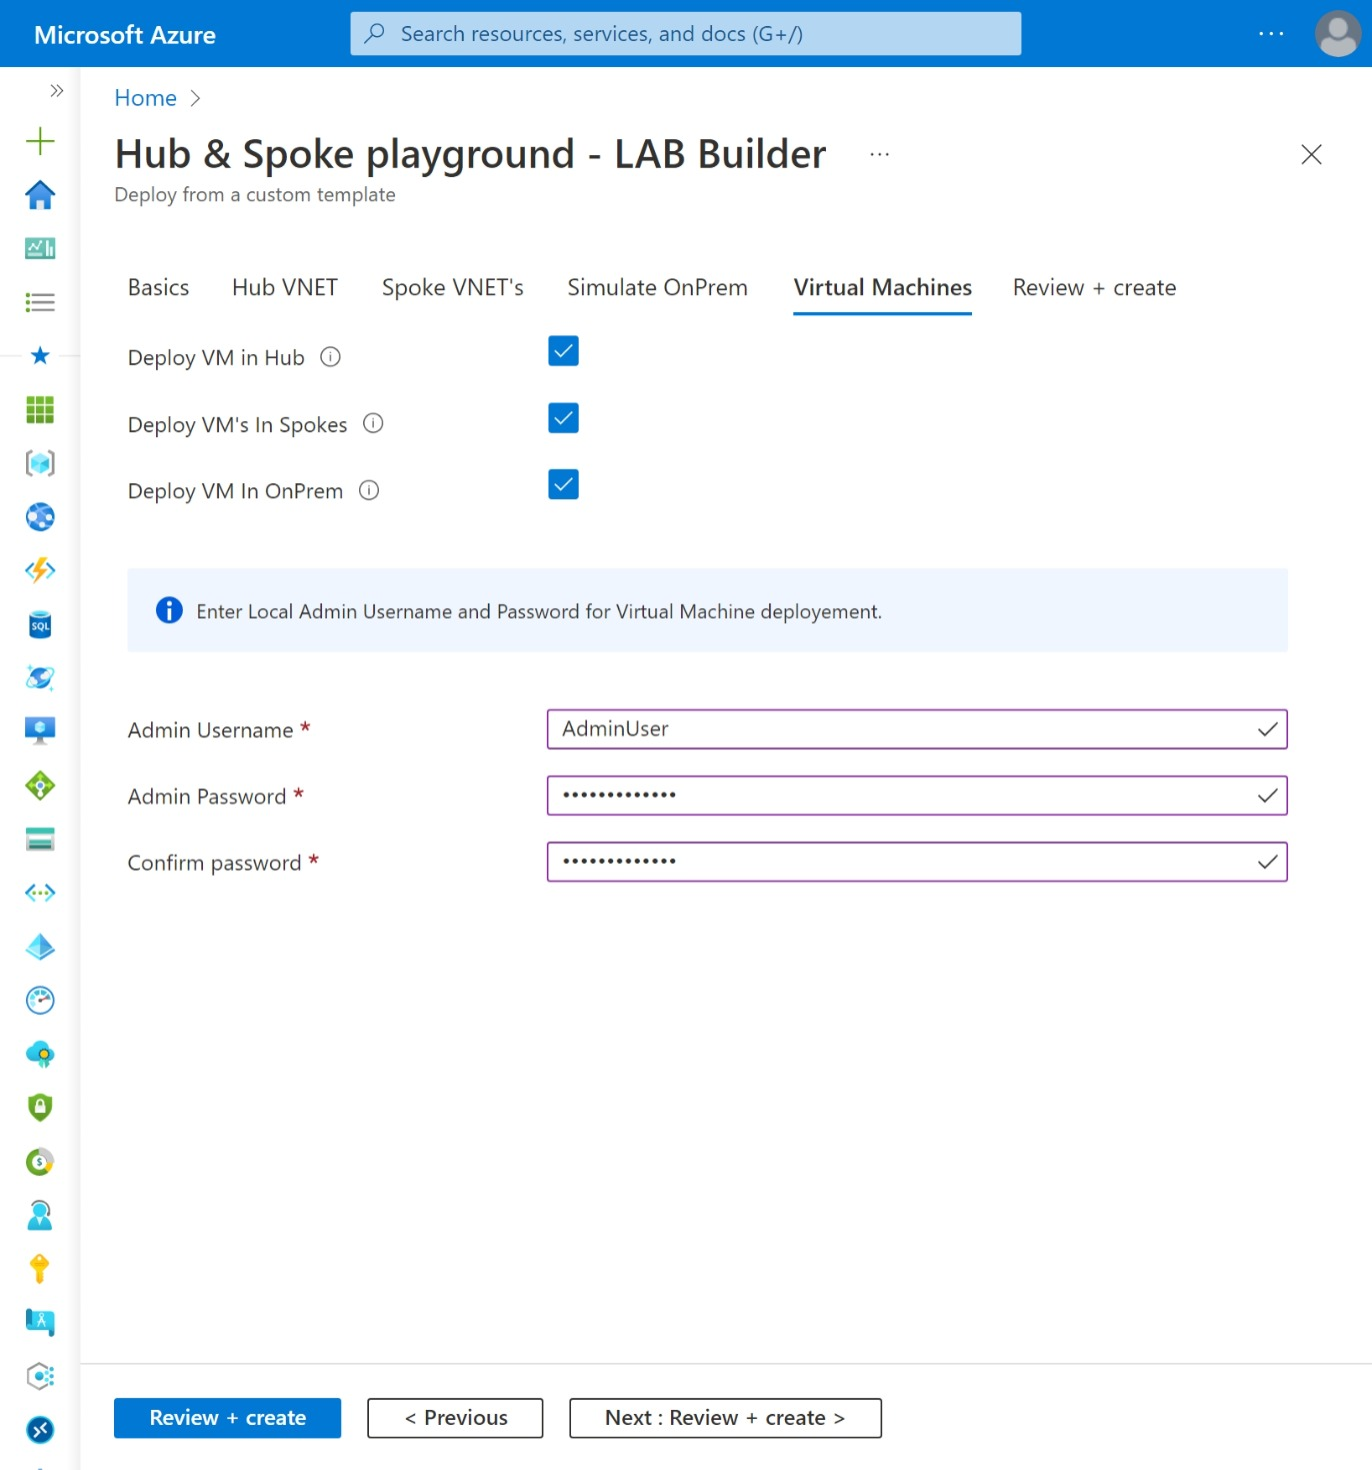
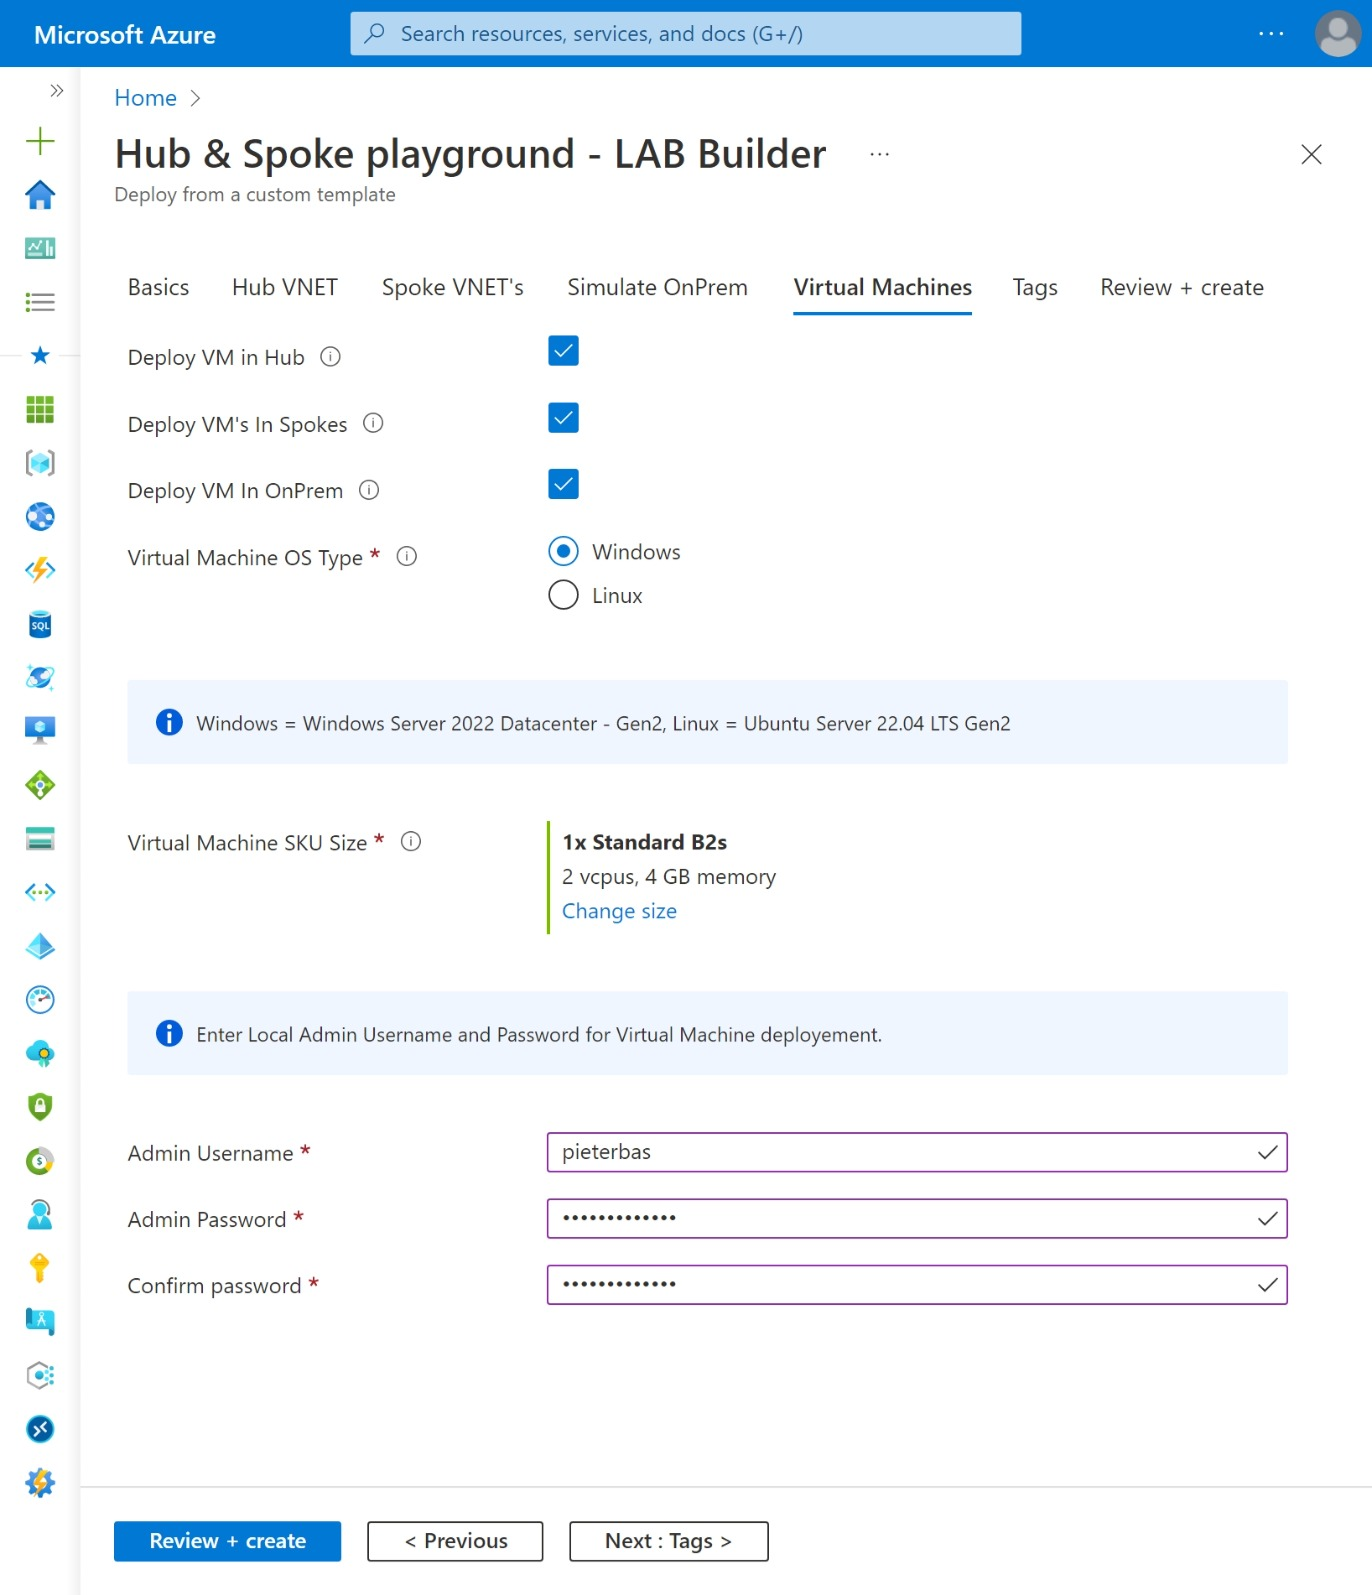
update readme and images

diff --git a/README.md b/README.md
@@ -36,7 +36,11 @@ With that in mind I've created a "Hub & Spoke playground Lab builder" so you'll 
 
 With this 'Hub & Spoke playground - LAB Builder' you'll be able to deploy Hub & Spoke topologies in various ways.
 
-Optionaly you can deploy Azure Firewall (Standard or Premium) in Hub VNET incl. Route table, deploy Virtual Machine in Hub VNET and/or Spoke VNET's and deploy Bastion Host in Hub VNET and/or Spoke VNET's. On deployemnt you can specify the amount of Spoke VNET's to be deployed. VNET peerings will be deployed if both Hub and Spoke(s) are selected for deployement.
+Optionaly you can deploy Azure Firewall (Standard or Premium) in Hub VNET incl. Route table, deploy Virtual Machine in Hub VNET and/or Spoke VNET's and deploy Bastion Host in Hub VNET and/or Spoke VNET's. Optional deploy default Azure Firewall rule Collection group which enables spoke-to-spoke and internet traffic.
+
+On deployemnt you can specify the amount of Spoke VNET's to be deployed. VNET peerings will be deployed if both Hub and Spoke(s) are selected for deployement.
+
+To simulate OnPrem hybrid connectivity you can optionaly deploy a 'OnPrem' VNET. Optionaly deploy a Bastion Host, Virtual Machine and Virtual Network Gateway in the OnPrem VNET. When a Hub is also deployed with a VPN Gateway you can optionaly deploy a site-to-site VPN connection.
 
 ## LABbuilder scenario's
 
@@ -47,7 +51,7 @@ With LABbuilder you can deploy 4 **main** scenario's.
 3. Deploy **Hub and Spoke(s)**
 4. Deploy **Hub and Spoke(s)** and **OnPrem** simulating Hybrid connectivity
 
-Within these three **main** scenario's there are multiple options:
+Within these **main** scenario's there are multiple options:
 
 |Scenrio|What gets deployed|
 |-|-|
@@ -67,14 +71,17 @@ Within these three **main** scenario's there are multiple options:
 |Select Subscription and Region<br>Enter the a **/16** subnet<br>example: **172.16.0.0/16**<br><br>*Note: Hub VNET will always get the first available /24 subnet, first spoke the second subnet etc.<br>like:<br>172.16.0.0/24 = Hub VNET<br>172.16.1.0/24 = Spoke1<br>172.16.2.0/24 = Spoke2<br>etc.*|![Step1](images/DeployToAzure-Step1.png)|
 |Deploy Hub<br>Optional enable:<br>- Azure Bastion<br>- Azure Firewall Standard or Premium<bR>- Azure Firewall Policy rule Collection group|![Step2](images/DeployToAzure-Step2.png)|
 |Deploy Spokes<br>Enter resource group prefix name<br>Enter amount of Spokes to deploy (Max 25)<br>Optional enable:<br>- Azure Bastion<br><br> *Note: VM and Azure Bastion will be deployed in every Spoke*|![Step3](images/DeployToAzure-Step3.png)|
-|Deploy a simulated OnPrem incl. Hybrid Connectivity.<br>Enter resource group name<br>Optional enable:<br>- Azure Bastion<br>- Virtual Network Gateway<br>- Site-to-Site connection between OnPrem and Hub|![Step4](images/DeployToAzure-Step4.png)|
-|Enable Virtual Machine deployment in Hub, Spoke or OnPrem.<br><br>Enter Local Admin credentials If Virtual Machine is selected for Hub and/or Spoke|![Step4](images/DeployToAzure-Step5.png)|
-|Validate and Deploy|![Step5](images/DeployToAzure-Step6.png)|
+|Deploy a simulated OnPrem incl. Hybrid Connectivity.<br>Enter resource group name<br><br>Optional enable:<br>- Azure Bastion<br>- Virtual Network Gateway<br>- Site-to-Site connection between OnPrem and Hub|![Step4](images/DeployToAzure-Step4.png)|
+|Enable Virtual Machine deployment in Hub, Spoke or OnPrem.<br><br>Select OS Type (Windows or Linux)<br><br>Select VM SKU Size<br><br>Enter Local Admin credentials If Virtual Machine is selected for Hub and/or Spoke|![Step4](images/DeployToAzure-Step5.png)|
+|Setup Tags|![Step5](images/DeployToAzure-Step6.png)|
+|Validate and Deploy|![Step5](images/DeployToAzure-Step7.png)|
 
 ## Deployment notes
 
 - VNET Peering will be deployed when Hub and Spoke are selected
 - ICMPv4 Firewall rule will be enabled on Virtual Machines
+- Windows VM image is Windows Server 2022 Datacenter Gen2
+- Linux VM image is Ubuntu Server 22.04 LTS Gen2
 - Route tables incl. Default route will be deployed if Azure Firewall is selected (0.0.0.0/0 -> Azure Firewall)
 - Network Security group will be deplyed to 'default' subnets only
 - At deployemt use a /16 subnet. every VNET (Hub and Spoke VNET's) will get a /24 subnet
@@ -157,6 +164,9 @@ Within these three **main** scenario's there are multiple options:
 |deployVMinOnPrem|bool|false|Deploy VM in OnPrem VNET|
 |deployGatewayinOnPrem|bool|false|Deploy Virtual Network Gateway in OnPrem VNET|
 |deploySiteToSite|bool|false|Deploy Site-to-Site VPN Connection between OnPrem and Hub VNET|
+|osType|string|Windows|Virtual machine OS Type. Windows or Linux|
+|vmSize|string|Standard_B2s|Virtual machine SKU size|
+
 
 ### ~~Backlog~~... whishlist items
 
@@ -165,4 +175,9 @@ Within these three **main** scenario's there are multiple options:
 - ~~Deploy separate VNET (simulate OnPrem) and deploy VPN gateways including Site-to-Site tunnel~~
 - ~~remove static Resource Group names~~
 - ~~use CIDR notation as Address Space (Instead of first two octets)~~
+- ~~Virtual machine OS Type. Windows and Linux support~~
+- ~~Virtual Machine SKU size selection~~
+- ~~Virtual machine boot diagnostics (Managed storage account)~~
+- ~~Virtual machine delete option of Disk and Nic~~
+- ~~Tags support for resources deployed~~
 - etc...
